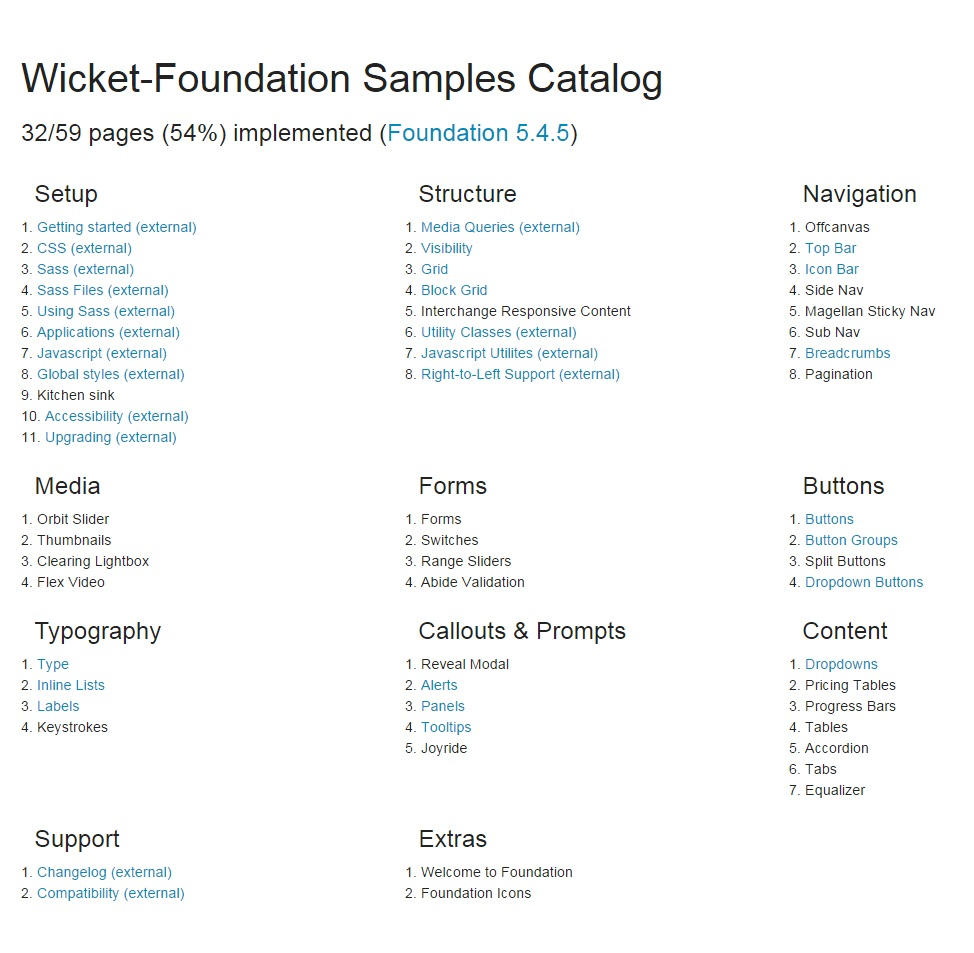
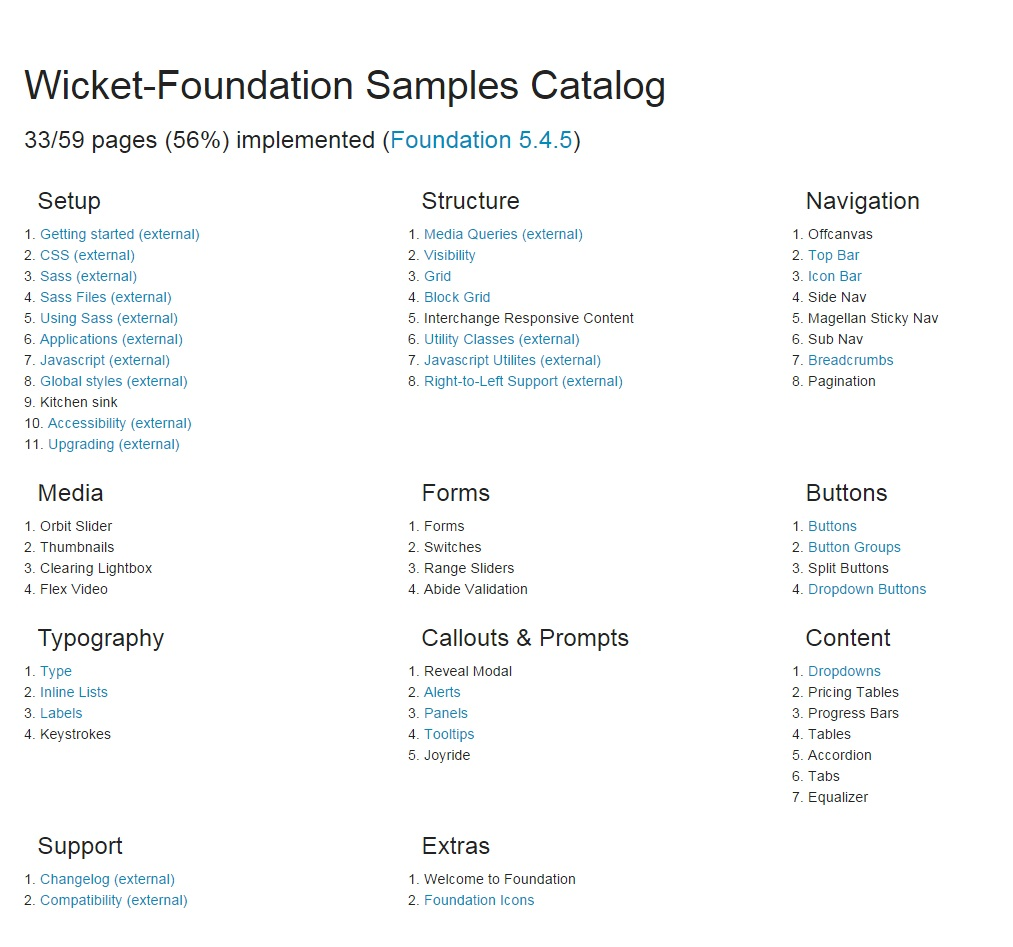
Updated catalog page status and screenshot.

diff --git a/wicket-foundation-samples/src/main/java/com/iluwatar/CatalogPage.html b/wicket-foundation-samples/src/main/java/com/iluwatar/CatalogPage.html
@@ -11,7 +11,7 @@
 		<h1>Wicket-Foundation Samples Catalog</h1>
 	</div>
     <div class="row">
-      <h3>32/59 pages (54%) implemented (<a href="http://foundation.zurb.com/" target="blank">Foundation 5.4.5</a>)</h3>
+      <h3>33/59 pages (56%) implemented (<a href="http://foundation.zurb.com/" target="blank">Foundation 5.4.5</a>)</h3>
     </div>
 
     <p>
